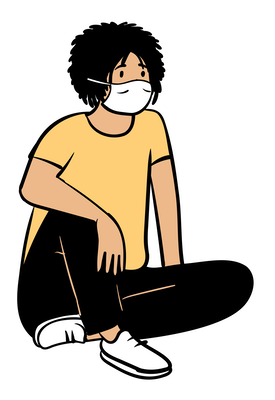
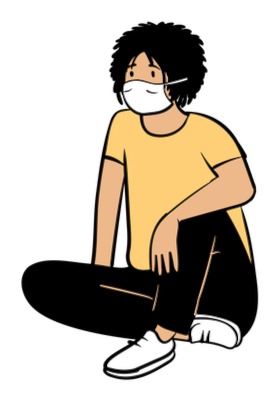
started education/about me section

diff --git a/index.html b/index.html
@@ -36,13 +36,10 @@
           <a class="nav-link" href="#">Home <span class="sr-only">(current)</span></a>
         </li>
         <li class="nav-item">
-          <a class="nav-link" onClick="document.getElementById('projects').scrollIntoView();" >Projects</a>
+          <a class="nav-link" onClick="document.getElementById('projects').scrollIntoView();">Projects</a>
         </li>
         <li class="nav-item">
           <a class="nav-link" href="#">Education</a>
-        </li>
-        <li class="nav-item">
-          <a class="nav-link" href="#">About me</a>
         </li>
         <li class="nav-item">
           <a class="nav-link" href="#">Contact me</a>
@@ -57,7 +54,7 @@
         <div class="landingLinks">
           <a href="https://github.com/Youspeakcubic" target="_blank"><img class="link" src="assets\images\githubIco2.png" </a>
             <br />
-          <a href="assets\images\resume.pdf" target="_blank"><img class="link" src="assets\images\resumeico.png" </a>
+            <a href="assets\images\resume.pdf" target="_blank"><img class="link" src="assets\images\resumeico.png" </a>
         </div>
         <div id="typeWriterContainer"></div>
         <h2>I was always the kid on his computer during lunch and making electronics, now as an adult that passion has only grown. I love to create seamless products, and innovative functional applications. Currently taking courses in and outside of
@@ -82,7 +79,8 @@
       <img class="card-img-top spanningImage" src="assets\images\paretOS.gif" alt="Card image cap">
       <div class="card-body">
         <h5 class="card-title">paretOS</h5>
-        <p class="card-text">Open source web application meant to help new developers connect with peers and learn new technologies and find jobs. I worked with this team of ~10 to make the application more responsive and help with some navbar layout issues on mobile and tablet viewports.</p>
+        <p class="card-text">Open source web application meant to help new developers connect with peers and learn new technologies and find jobs. I worked with this team of ~10 to make the application more responsive and help with some navbar layout
+          issues on mobile and tablet viewports.</p>
         <a href="https://www.paret0.com/" target="_blank" class="btn btn-primary">View live</a>
         <a href="https://github.com/mikhael28/paretOS/pull/61" target="_blank" class="btn btn-primary">View Code</a>
       </div>
@@ -159,8 +157,47 @@
   </div>
   <!-- education section -->
   <div class="slantsection2">
-      <img src="assets\images\sitting.png" alt="sitting img">
-  </div>
+      <h1>Education:</h1>
+      <hr />
+      <h2>San Antonio College</h2>
+      <ul>
+        <li>Associates in computer programming</li>
+      </ul>
+      <h2>Team Tree house</h2>
+      <ul>
+        <li>Online course work on front and back end development</li>
+        <li>Courses Taken:</li>
+        <ul>
+          <li>AJAX basics</li>
+          <li>Bootstrap 4 basics</li>
+          <li>Intro to HTML and CSS</li>
+          <li>JavaScript Functions </li>
+          <li>Javascript Arrays </li>
+          <li>Javascript Basics</li>
+          <li>Javascript Loops</li>
+          <li>Javascript Objects</li>
+          <li>Javascript Objects</li>
+          <li>Javascript and the DOM</li>
+          <li>React Components</li>
+          <li>React basics</li>
+          <li>SQL basics</li>
+        </ul>
+      </ul>
+      <h2>Roosevelt High school</h2>
+      <ul>
+        <li>Attended comp sci magnet program</li>
+        <li>SAT:1370</li>
+        <li>GPA:3.4</li>
+        <li>Class of 2019</li>
+      </ul>
+      <div class="aboutTab">
+        <h1>About me:</h1>
+        <p>I was born in Miami Florida, I spent my days as a child riding BMX and going to beaches. I loved playing with electronics and computers when i was home. I enjoyed tinkering and i now have a collection of pc parts and electronics that fills my room to this day to show for it. I moved to Texas when i was 14 and was distraught by the whole new place i was surrounded by, but i found a passion for climbing here that has stuck with me. I climb mountains through failures and falls much like my programming career with its pitfalls, but i would not have it any other way. I love eating Ramen and watching anime in my off time, i also like thrifting and book shopping. My favorite book right now would have to be "1984 by George Orwell, I enjoy dystopian society books as they often relate to our own lives although extremely exaggerated." </p>
+      </div>
+      <img class="educationImg" src="assets\images\sitting.png" alt="sitting img">
+    <hr class="seperator" />
+    </div>
+
   <script src="https://unpkg.com/typewriter-effect@latest/dist/core.js"></script>
   <script src="assets\javascript\typewriter.js"></script>
 </body>

diff --git a/assets/css/style.css b/assets/css/style.css
@@ -21,6 +21,16 @@ h2 {
   color: #E0E0E0;
   font-size: 3.5vh;
 }
+ul{
+  margin-left: 2vw;
+}
+li{
+  color: #E0E0E0;
+}
+p{
+  font-family: 'Oswald', sans-serif;
+  color: #E0E0E0;
+}
 
 /* class styling*/
 
@@ -136,6 +146,12 @@ height:40vh;
   background-color: #FECF76;
   border: 1px solid #FEA90B;
 }
+.card-title{
+  color:#E0E0E0;
+}
+.card-text{
+  color:#E0E0E0;
+}
 /*Education section styling */
 .slantsection2 {
   padding: 50px 0;
@@ -143,9 +159,9 @@ height:40vh;
   overflow: visible;
   z-index: 1;
   position: absolute;
-  top: 300%;
+  top: 260%;
   width: 100%;
-  height:120vh;
+  height:80vh;
   opacity: .85;
 }
 
@@ -167,4 +183,17 @@ height:40vh;
   /*box-shadow: 10px 10px 10px 10px #FEA90B;*/
   transform-origin: right top;
   transform: skewY(3deg);
+}
+.educationImg{
+  height:70vh;
+  position: relative;
+  left:70vw;
+  bottom:105vh;
+  z-index: 20;
+}
+.aboutTab{
+  position: relative;
+  bottom:79vh;
+  left:35vw;
+  width:25vw;
 }
